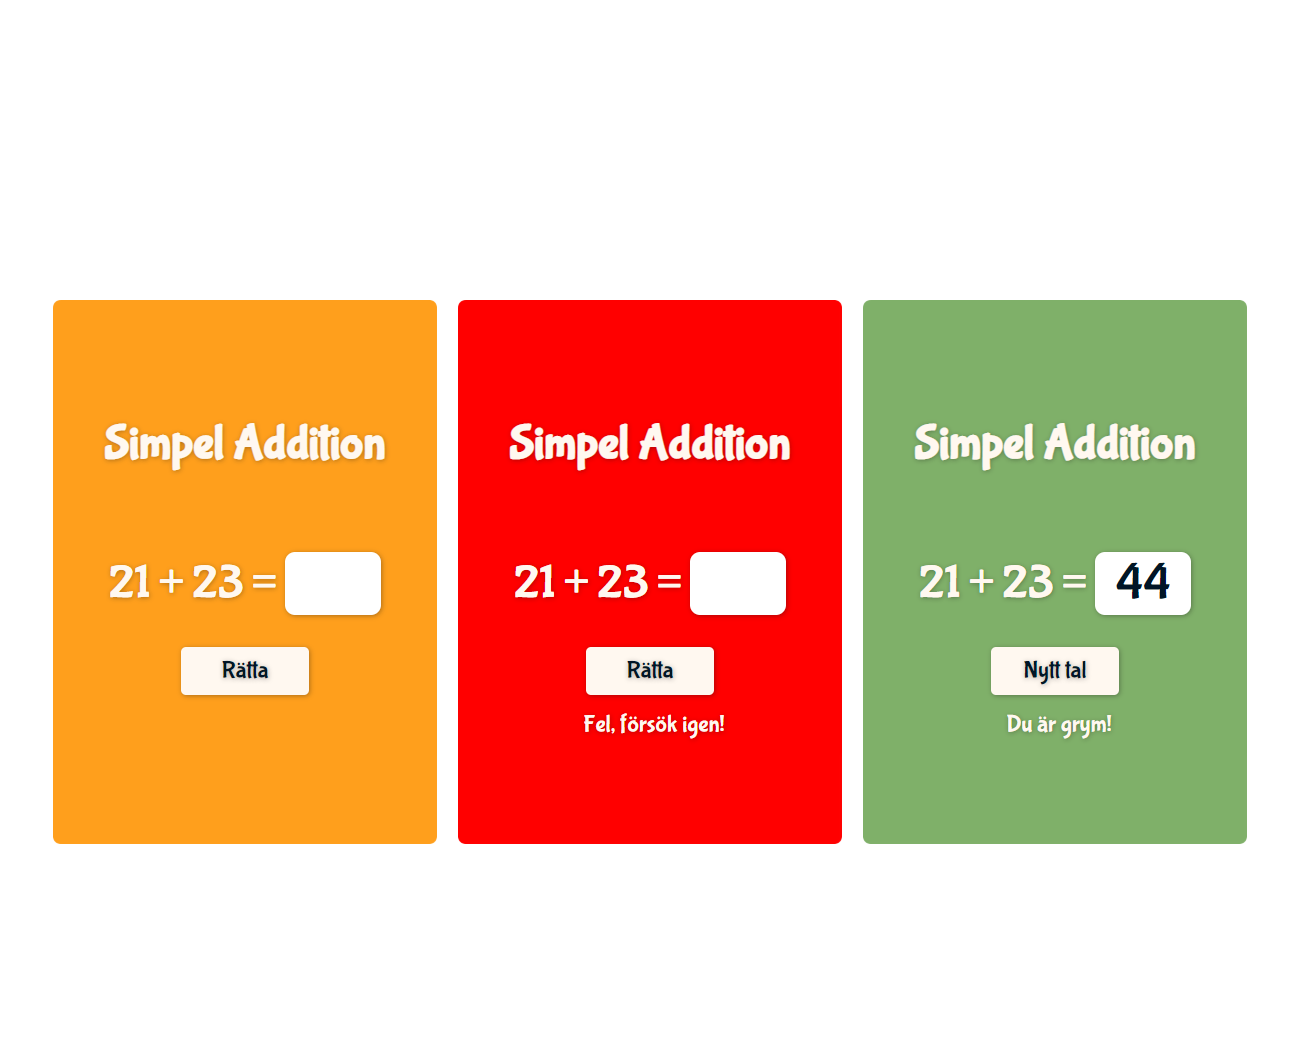
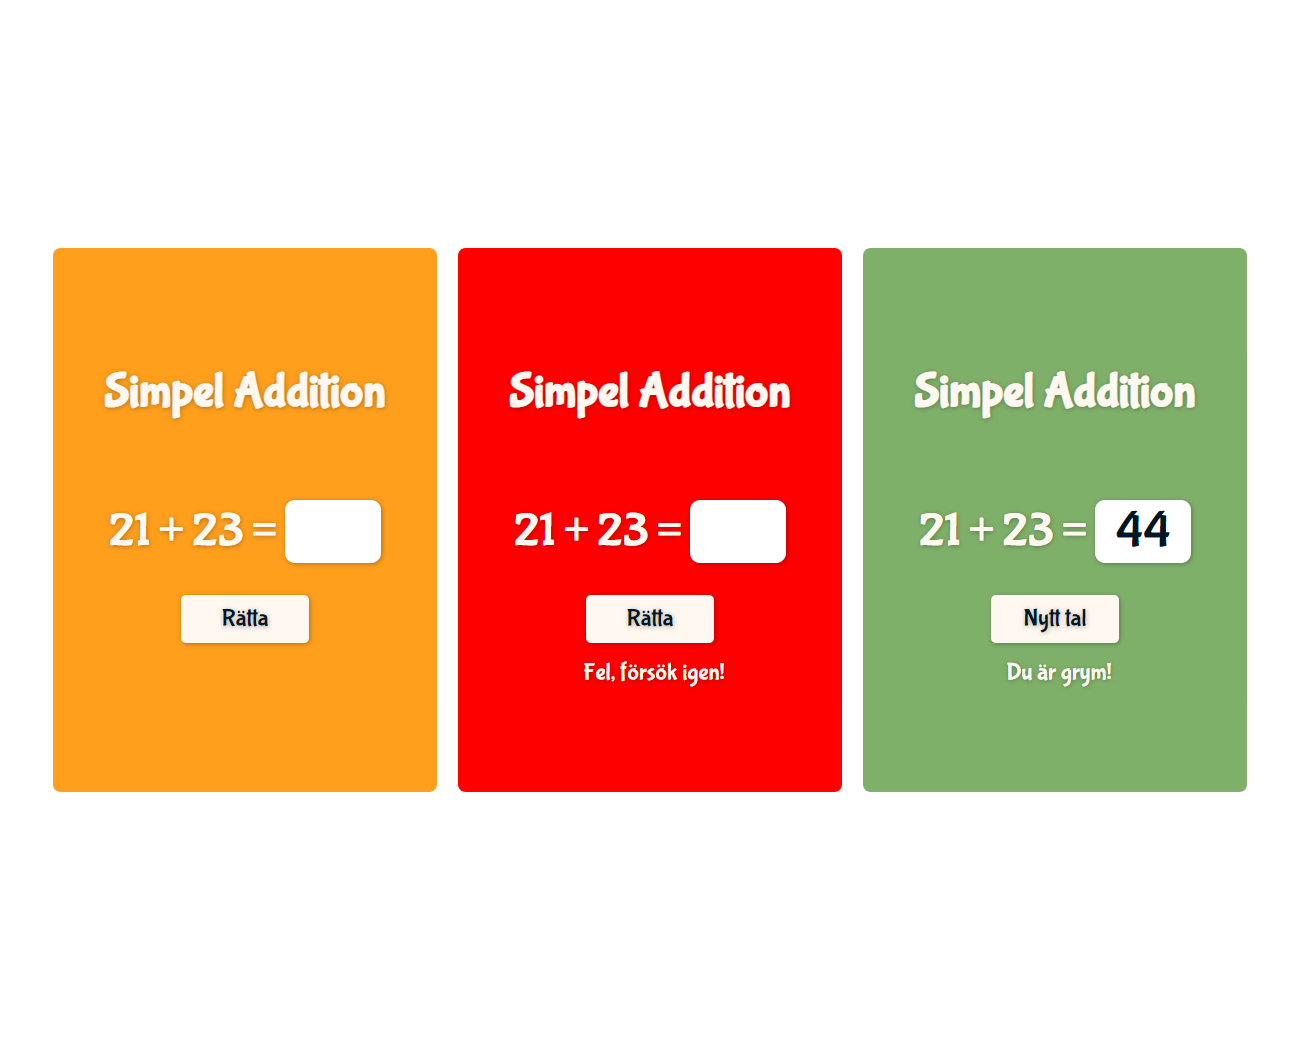
Finetune portfolio to mobile

diff --git a/index.html b/index.html
@@ -93,7 +93,7 @@
             <div class="portfolio-container portfolio-container-1 flex-1 animation-content-sections">
                 <div class="portfolio-item max-width flex row height">
                     <div class="portfolio-text flex flex-1 center column">
-                        <h3><mark>Upplev Skogen</mark></h3>
+                        <h4>Upplev Skogen</h4>
                         <p>Upplev skogen är en fiktiv landingpage där man kan lätt kan hitta aktiviteter i var natur, främst skogen.</p>
                         <p>Vill du vandra, cykla eller utöva någon annan aktivitet i våra fantastiska skogar. Kan du här få hjälp och tips för din bästa upplevelse.</p>
                     </div>
@@ -103,12 +103,12 @@
                 </div>
             </div>
             <div class="portfolio-container portfolio-container-2 flex-1 animation-content-sections">
-                <div class="portfolio-item max-width flex row height">
+                <div class="portfolio-item portfolio-2 max-width flex row height">
                     <div class="portfolio-img simple-math-img flex-1">
                         <img src="./style/img/project/project-simple-math.png" alt="simpel addition">
                     </div>
                     <div class="portfolio-text flex flex-1 center column">
-                        <h3><mark>Simpel Addition</mark></h3>
+                        <h4>Simpel Addition</h4>
                         <p>Gillar man matte så är denna bra och oändlig.</p>
                         <p>Simpel Addition skapade jag till min son som älskar matematik.</p>
                         <p>Det är en random function som tar ut talen mellan ett visst värde.</p>
@@ -121,7 +121,7 @@
             <div class="portfolio-container portfolio-container-3 animation-content-sections flex-1">
                 <div class="portfolio-item max-width flex row height">
                     <div class="portfolio-text flex flex-1 justify-center column">
-                        <h3><mark>Pandora</mark></h3>
+                        <h4>Pandora</h4>
                         <p>Pandora är en väldigt kort Tell Tail i en snygg bildspel layout.</p>
                         <p>Jag har använt mig av färgerna i bakgrundsbilden för att färglägga alla mina html-objekt.</p>
                         <p>Allt för att få en enhetlig känsla.</p>

diff --git a/style/style.css b/style/style.css
@@ -162,6 +162,11 @@ h3 {
     transition: all .5s ease;
 }
 
+h4 {
+    font-size: 2rem;
+    font-weight: 400;
+}
+
 .nav-header i {
     font-size: 1.1rem;
     padding-left: 1.2rem;
@@ -303,7 +308,7 @@ nav {
     max-width: 45rem;
     width: 100%;
 
-    padding: 8rem 0 4rem 0;
+    padding: 4rem 0;
     margin: 0 auto;
 }
 
@@ -322,12 +327,20 @@ nav {
     background: #E1BC81;
 }
 
-.portfolio-container-2 {
-    background: #FF9F1C;
+.portfolio-container-1 h4, p {
+    color: var(--middlegrey);
 }
 
-.portfolio-container-3 {
-    background: #D32956;
+.portfolio-container-2 h4, p {
+    color: var(--middlegrey);
+}
+
+.portfolio-container-3{
+    background: #D32956;    
+}
+
+.portfolio-container-3 p, h4 {
+    color: var(--white);    
 }
 
 .portfolio-item {
@@ -335,15 +348,22 @@ nav {
     padding: 4rem 0;
 }
 
+.portfolio-img {
+    border-radius: 8px;
+    overflow: hidden;
+}
+
 .portfolio-img img {
     height: 100%;
     width: 100%;
     object-fit: cover;
     object-position: center;
+    
 }
 
 .simple-math-img {
     background: var(--white);
+    
 }
 
 .about-section {

diff --git a/style/mobile.css b/style/mobile.css
@@ -29,4 +29,37 @@
        display: none;
    }
 
+   .what-makes-a-good-page-section {
+    padding: 4rem 2rem;
+}
+
+   .portfolio-container {
+    height: auto;
+    }
+
+   .portfolio-item {
+    flex-direction: column;
+    padding: 4rem 2rem;
+    }
+
+    .portfolio-2 {
+        flex-direction: column-reverse;
+    }
+
+    .portfolio-img {
+    height: 20rem;
+
+    padding-top: 2rem;    
+    }
+
+    .portfolio-img img {
+        border-radius: 10px;
+        overflow: hidden;  
+    }
+
+    .about-section {
+        padding: 4rem 2rem;
+    }
+
+
 }
